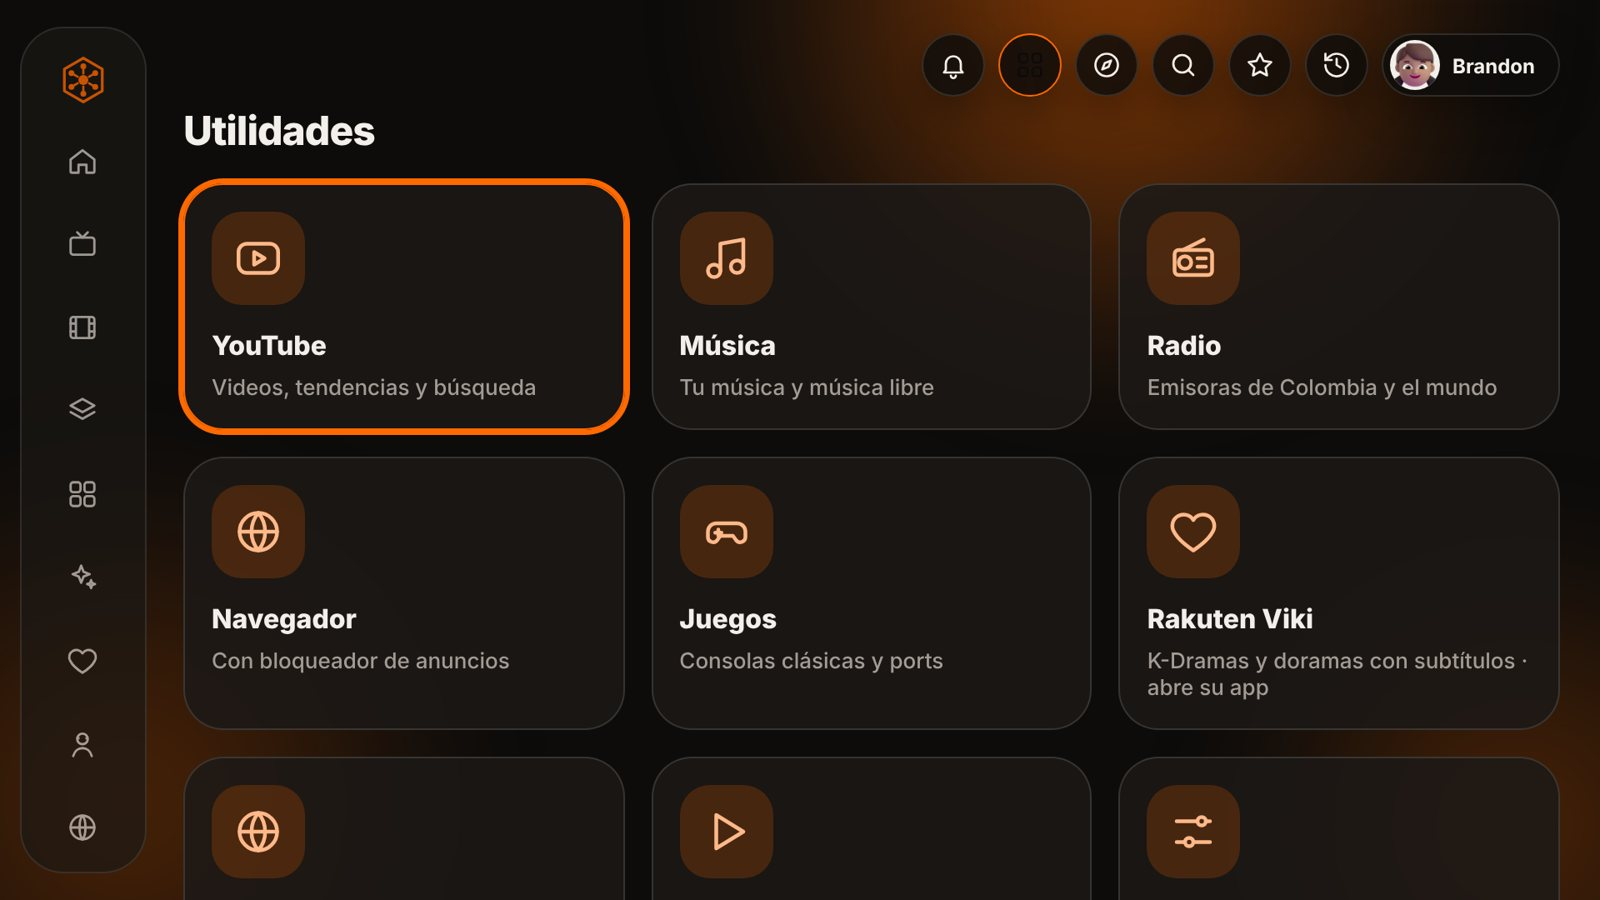
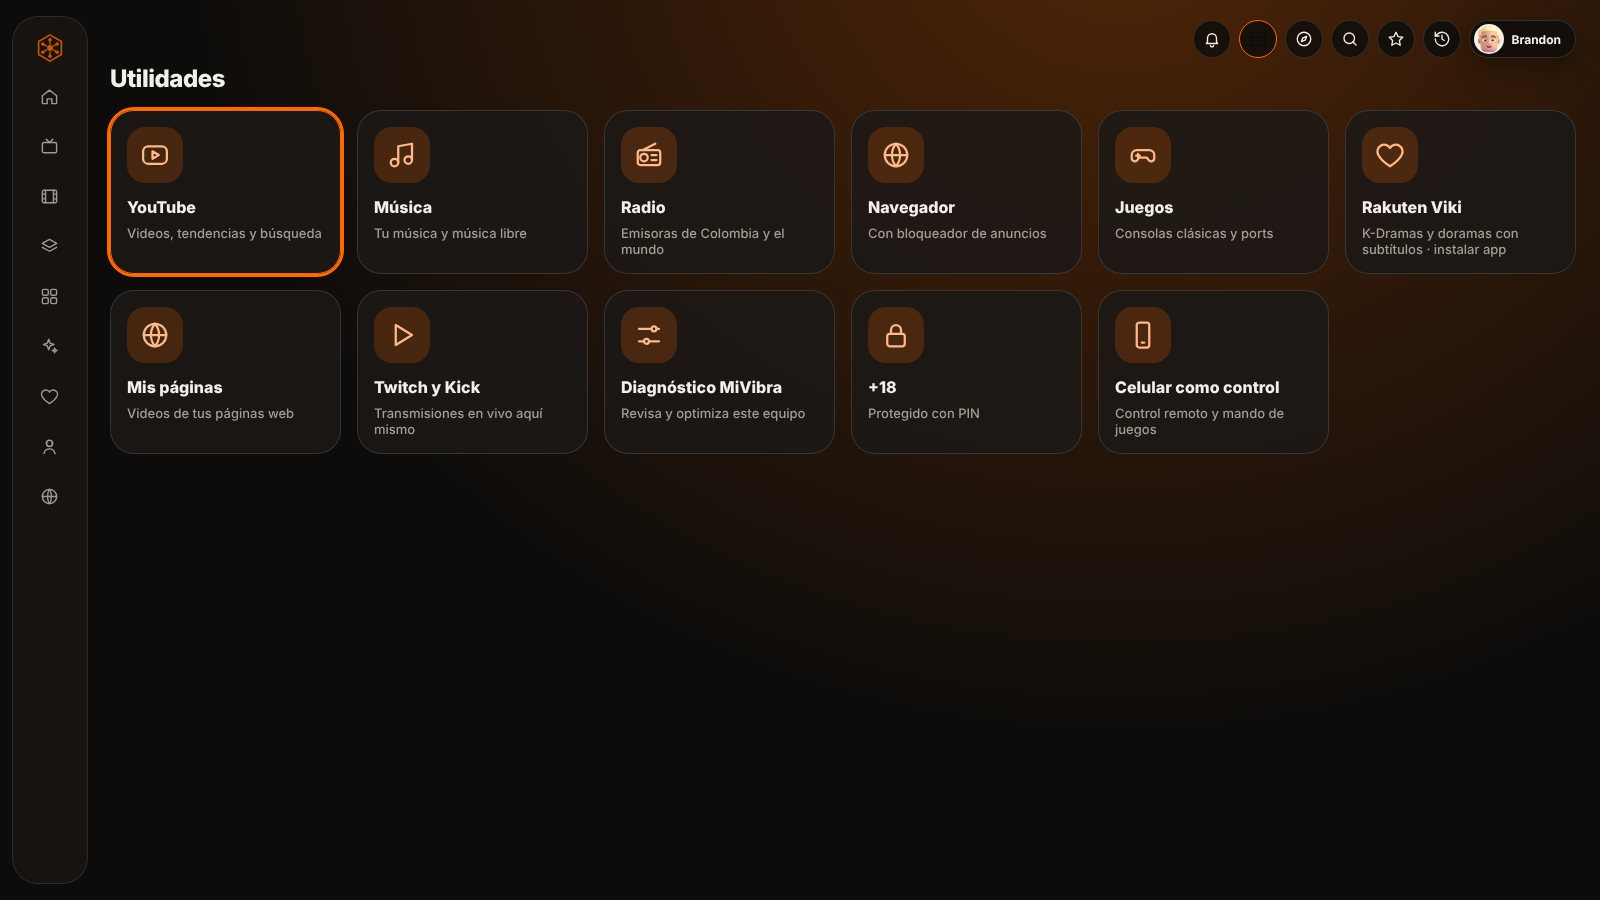
README: capturas de utilidades, navegador, ajustes, agregar lista, celular como mando, juegos estilo consola e intro
Claude-Session: https://claude.ai/code/session_014o9FkWErHfLbkjXGFn5La3

diff --git a/app/src/main/assets/www/app.css b/app/src/main/assets/www/app.css
@@ -633,3 +633,6 @@ html.lite .card .shine { display: none; }
 .wzc .qr{width:150px;background:#fff;border-radius:10px;padding:6px}.wzc .qr svg{width:100%;height:auto;display:block}
 .wzcode{font:800 30px/1 var(--brand,inherit);letter-spacing:4px;padding:10px 0}
 @media (max-width:760px){.wz{grid-template-columns:1fr}}
+.dialog:has(.wz) { width: min(1100px, 94vw); max-width: min(1100px, 94vw); }
+.wzc .qr { height: auto; aspect-ratio: 1; align-self: flex-start; }
+.wzc .btn { align-self: flex-start; }

diff --git a/README.md b/README.md
@@ -39,12 +39,29 @@ MiVibra TV junta en un solo lugar las listas que ya tienes (M3U, Xtream Codes, P
 | **En vivo:** secciones, países, categorías y guía | **Buscar:** teclado QWERTY para el control remoto, actores y cartelera |
 | <img src="docs/capturas/tv-perfiles.jpg" alt="Perfiles con avatares 3D"> | <img src="docs/capturas/tv-infantil.jpg" alt="Perfil infantil"> |
 | **Perfiles** con avatares 3D y PIN | **Perfil infantil** con tiempo límite y YouTube para niños |
+| <img src="docs/capturas/tv-utilidades.jpg" alt="Panel de utilidades"> | <img src="docs/capturas/tv-navegador.jpg" alt="Navegador"> |
+| **Utilidades:** YouTube, música, radio, navegador, juegos, Twitch y Kick, Mis páginas, diagnóstico, +18 y celular como control | **Navegador** con bloqueador de anuncios, cursor con el control y accesos rápidos |
+| <img src="docs/capturas/tv-ajustes-listas.jpg" alt="Ajustes de listas"> | <img src="docs/capturas/tv-ajustes-temas.jpg" alt="Ajustes de temas e intro"> |
+| **Ajustes › Listas:** activar, guía EPG, borrar, sin repetidos, solo latino y agregar desde el celular o la web | **Ajustes › Temas:** intro de bienvenida, tutorial, temas por celebración y colores |
+| <img src="docs/capturas/tv-agregar-lista.jpg" alt="Agregar tu lista"> | <img src="docs/capturas/tv-celular-mando.jpg" alt="Celular como mando"> |
+| **Agrega tu lista:** con el QR desde el celular, desde el panel web con el código de la TV o con el control | **Celular como mando:** escanea el código y úsalo como control remoto o mando de juego (jugador 1 y 2) |
+
+**Juegos estilo consola**
+
+| | |
+|---|---|
+| <img src="docs/capturas/tv-juegos.jpg" alt="Juegos: inicio de la consola"> | <img src="docs/capturas/tv-juegos-biblioteca.jpg" alt="Juegos: biblioteca por consola"> |
+| **Inicio:** jugados recientemente con carátula, consolas con su ícono y botones de buscar, BIOS, enviar, información, emuladores, editar y borrar | **Biblioteca:** todos tus juegos en estantes por consola |
+| <img src="docs/capturas/tv-juegos-opciones.jpg" alt="Opciones de un juego"> | <img src="docs/capturas/tv-intro-consolas.jpg" alt="Intro de bienvenida"> |
+| **Opciones de cada juego** (dejar presionado OK o el lápiz): ficha, renombrar, carátula, emulador y sistema | **Intro de bienvenida** con las secciones de la app y las consolas |
 
 | Celular | | |
 |---|---|---|
 | <img src="docs/capturas/cel-inicio.jpg" width="260" alt="Inicio en celular"> | <img src="docs/capturas/cel-peliculas.jpg" width="260" alt="Películas en celular"> | <img src="docs/capturas/cel-ficha.jpg" width="260" alt="Ficha en celular"> |
+| <img src="docs/capturas/cel-mando.jpg" width="260" alt="Celular como mando"> | <img src="docs/capturas/cel-enviar-juegos.jpg" width="260" alt="Enviar juegos desde el celular"> | <img src="docs/capturas/cel-panel-listas.jpg" width="260" alt="Panel web para agregar listas"> |
+| **Control remoto y mando** | **Enviar juegos y BIOS** a la TV | **Panel web:** agrega tu lista con el código de la TV |
 
-<sub>Las carátulas y títulos de las capturas son de ejemplo (clásicos de dominio público y títulos inventados).</sub>
+<sub>Las carátulas y títulos de las capturas son de ejemplo: clásicos de dominio público, canales y juegos inventados.</sub>
 
 ## Tu lista, tu TV
 
